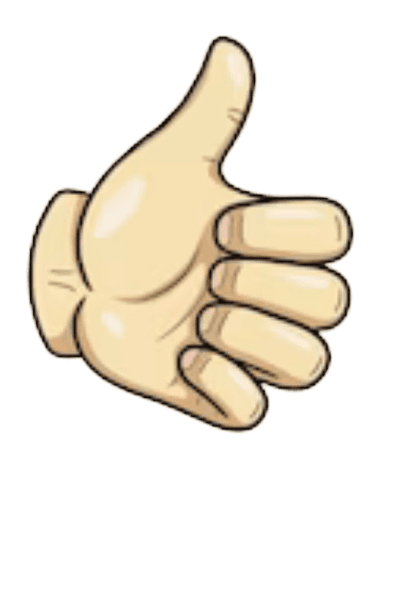
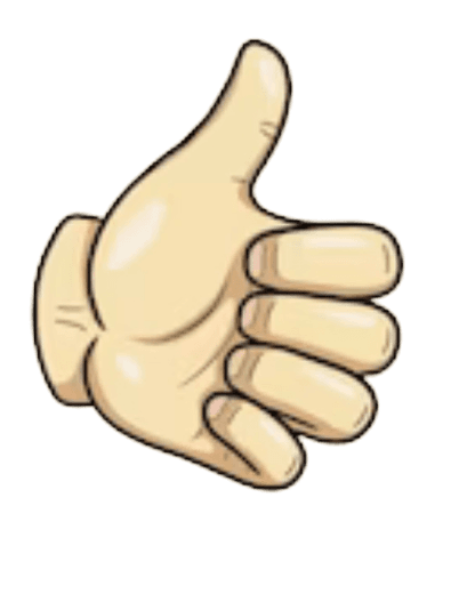
Update in UI and position

Changed region(s): [[0.0597, 0.06, 0.8955, 0.84]]

diff --git a/HandCircket/index.html b/HandCircket/index.html
@@ -29,29 +29,31 @@
     <main style="display: flex;">
         <!-- 6 -->
         <section id="left">
-            <img id="player" src="images/1.png" alt="player option" width="50%">
+            <img id="player" src="images/stump.jpg" alt="player option" width="50%">
         </section>
         <!-- 7 -->
         <section id="right">
-            <img id="playerM" src="images/1.png" alt="Machine option" width="50%">
+            <img id="playerM" src="images/batandball.png" alt="Machine option" width="50%">
         </section>
     </main>
     <!-- 2 -->
-    <footer>
-        <div style="display: flex; font-weight: bold; background-color: rgba(217, 255, 0, 0.322); padding: 0.5%;">
-    
-            <div>
-                <p id="name">Player Name</p>
-                <center id="player-run">0</center>
+    <div class="foo">
+        <button id="startButton">Start Listening</button>
+        <footer>
+            <div style="display: flex; font-weight: bold; background-color: rgba(217, 255, 0, 0.322); padding: 0.5%;">
+        
+                <div>
+                    <p id="name">Player Name</p>
+                    <center id="player-run">0</center>
+                </div>
+                <h1 style="margin-left: 20px; color: red;">VS</h1>
+                <div style="margin-left: 20px;">
+                    <p>Computer</p>
+                    <center id="machine-run">0</center>
+                </div>
             </div>
-            <h1 style="margin-left: 20px; color: red;">VS</h1>
-            <div style="margin-left: 20px;">
-                <p>Computer</p>
-                <center id="machine-run">0</center>
-            </div>
-        </div>
-    </footer>
-    <button id="startButton">Start Listening</button>
+        </footer>
+    </div>
     <div id="user"></div>
     <div id="machine"></div>
     <!-- <textarea id="inputText" rows="4" placeholder="Enter text here..."></textarea>

diff --git a/HandCircket/script.js b/HandCircket/script.js
@@ -1,7 +1,7 @@
 var total = 0;
 if ('SpeechRecognition' in window || 'webkitSpeechRecognition' in window) {
     
-    var machineVal = 0;
+    
 
     var recognition = new (window.SpeechRecognition || window.webkitSpeechRecognition)();
     recognition.lang = 'en-US';
@@ -59,7 +59,7 @@ if ('SpeechRecognition' in window || 'webkitSpeechRecognition' in window) {
         let min = 1;
         let max = 6;
         let randomNum = Math.floor(Math.random() * (max - min + 1)) + min;
-        console.log(randomNum);
+        var machineVal = randomNum;
         if (randomNum == 1) 
             document.getElementById("playerM").src = "images/1.png";
         else if (randomNum == 2) 
@@ -74,10 +74,15 @@ if ('SpeechRecognition' in window || 'webkitSpeechRecognition' in window) {
             document.getElementById("playerM").src = "images/6.png";
         else
             document.getElementById("playerM").src = "";
-
-        total += playerVal;
-        document.getElementById('player-run').innerHTML = total;
-        console.log("Total: " + total);
+        
+        if (playerVal == machineVal) {
+            console.log("Your message here");
+            alert('Out');
+        } else {
+            total += playerVal;
+            document.getElementById('player-run').innerHTML = total;
+            console.log("Total: " + total);
+        }
     };
     // document.getElementById('speakButton').onclick = function () {
     //     var inputText = document.getElementById('inputText').value;

diff --git a/HandCircket/style.css b/HandCircket/style.css
@@ -83,5 +83,9 @@ footer {
     display: flex;
     align-items: center;
     justify-content: center;
+    position: fixed;
+    bottom: 0;
+    left: 0;
+    width:100%;
     /* background-color: yellow; */
 }

diff --git a/HandCircket/init.html b/HandCircket/init.html
@@ -1,0 +1,11 @@
+<!DOCTYPE html>
+<html>
+<head>
+    <title>Welcome Page</title>
+</head>
+<body>
+    <div class="main">
+        
+    </div>
+</body>
+</html>
